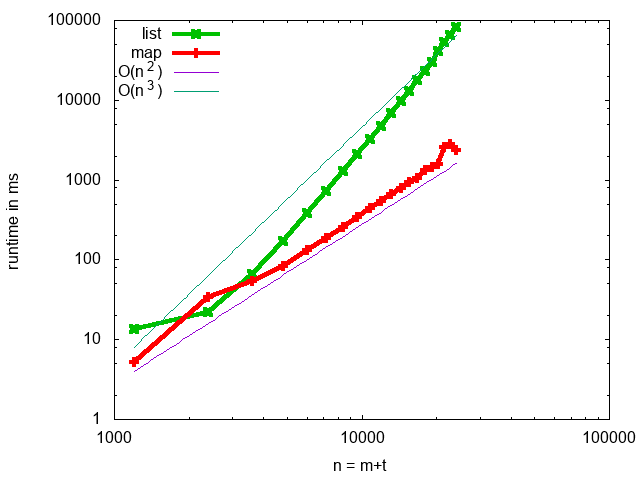
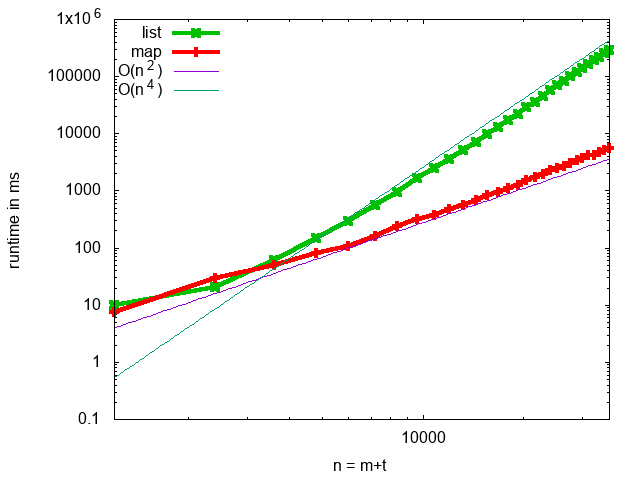
updating benchmark

diff --git a/lectures/dynamic/slides.tex b/lectures/dynamic/slides.tex
@@ -632,6 +632,15 @@ end
 
 \end{frame}
 
+\begin{frame}{same benchmark}
+
+\begin{figure}
+ \includegraphics[scale=0.5]{note.png}
+\end{figure}
+
+\end{frame}
+
+
 \begin{frame}{dynamic programming}
 
 \vspace{40pt}\hspace{80pt}\parbox[l][60pt][l]{240pt}{Problem divided into simpler parts that can be solved independently, but
